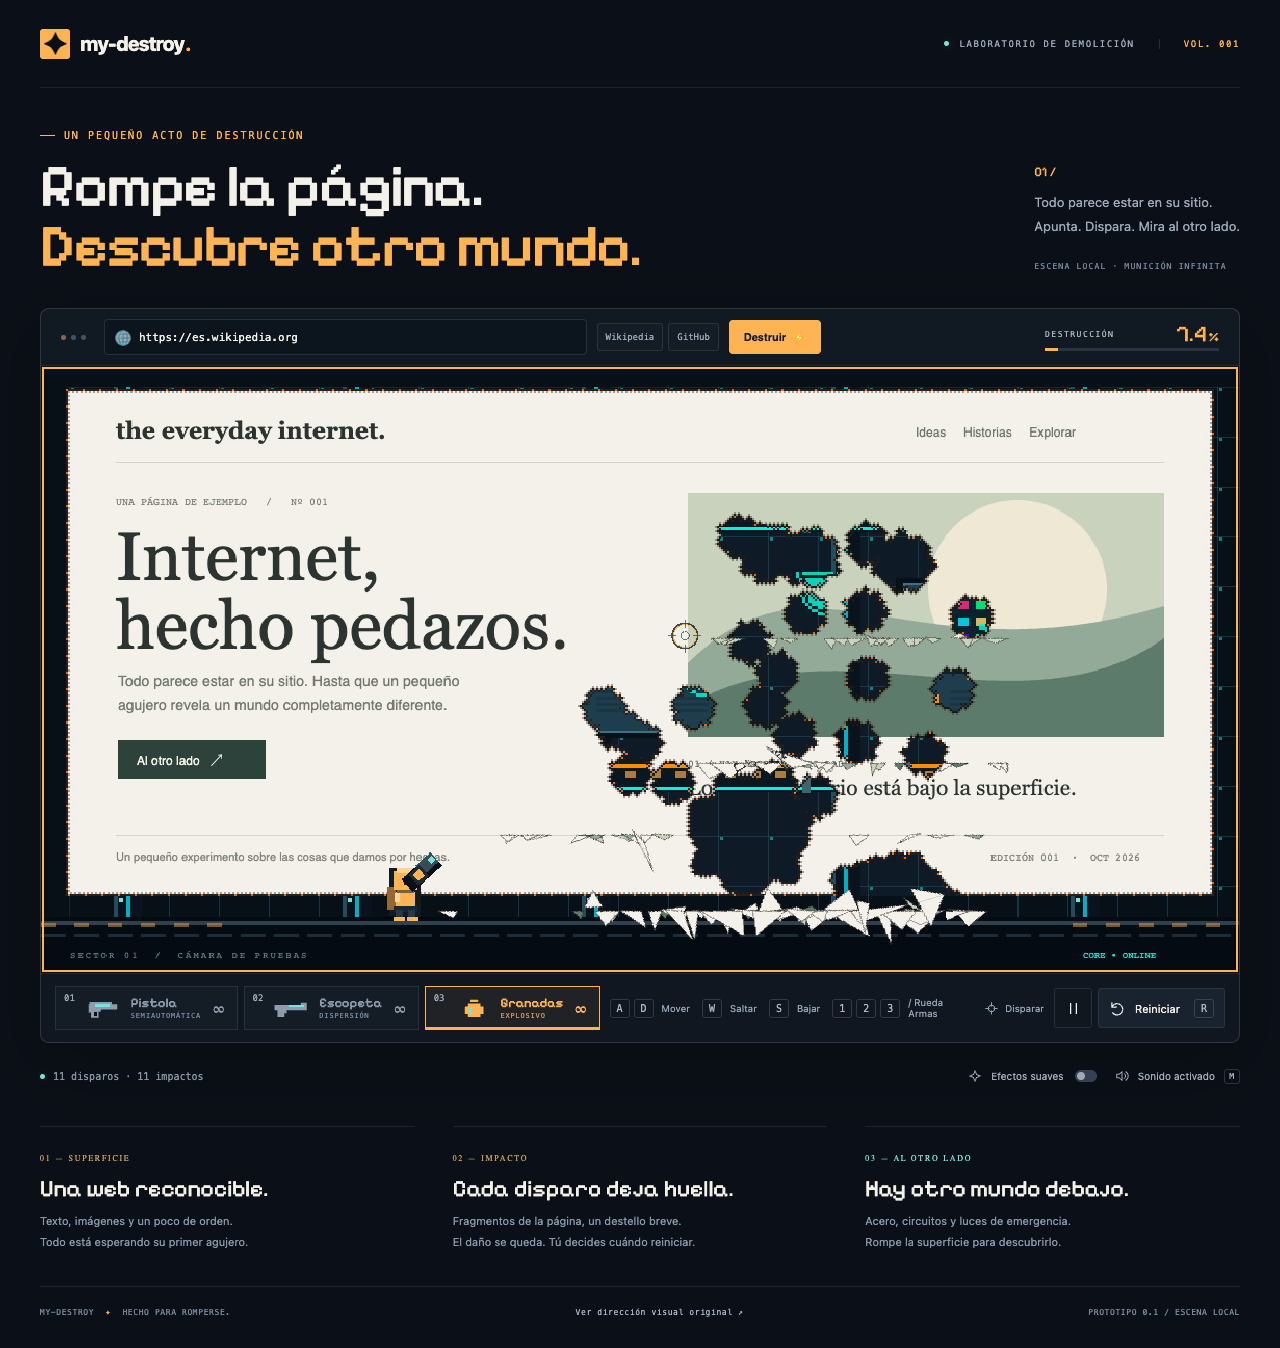
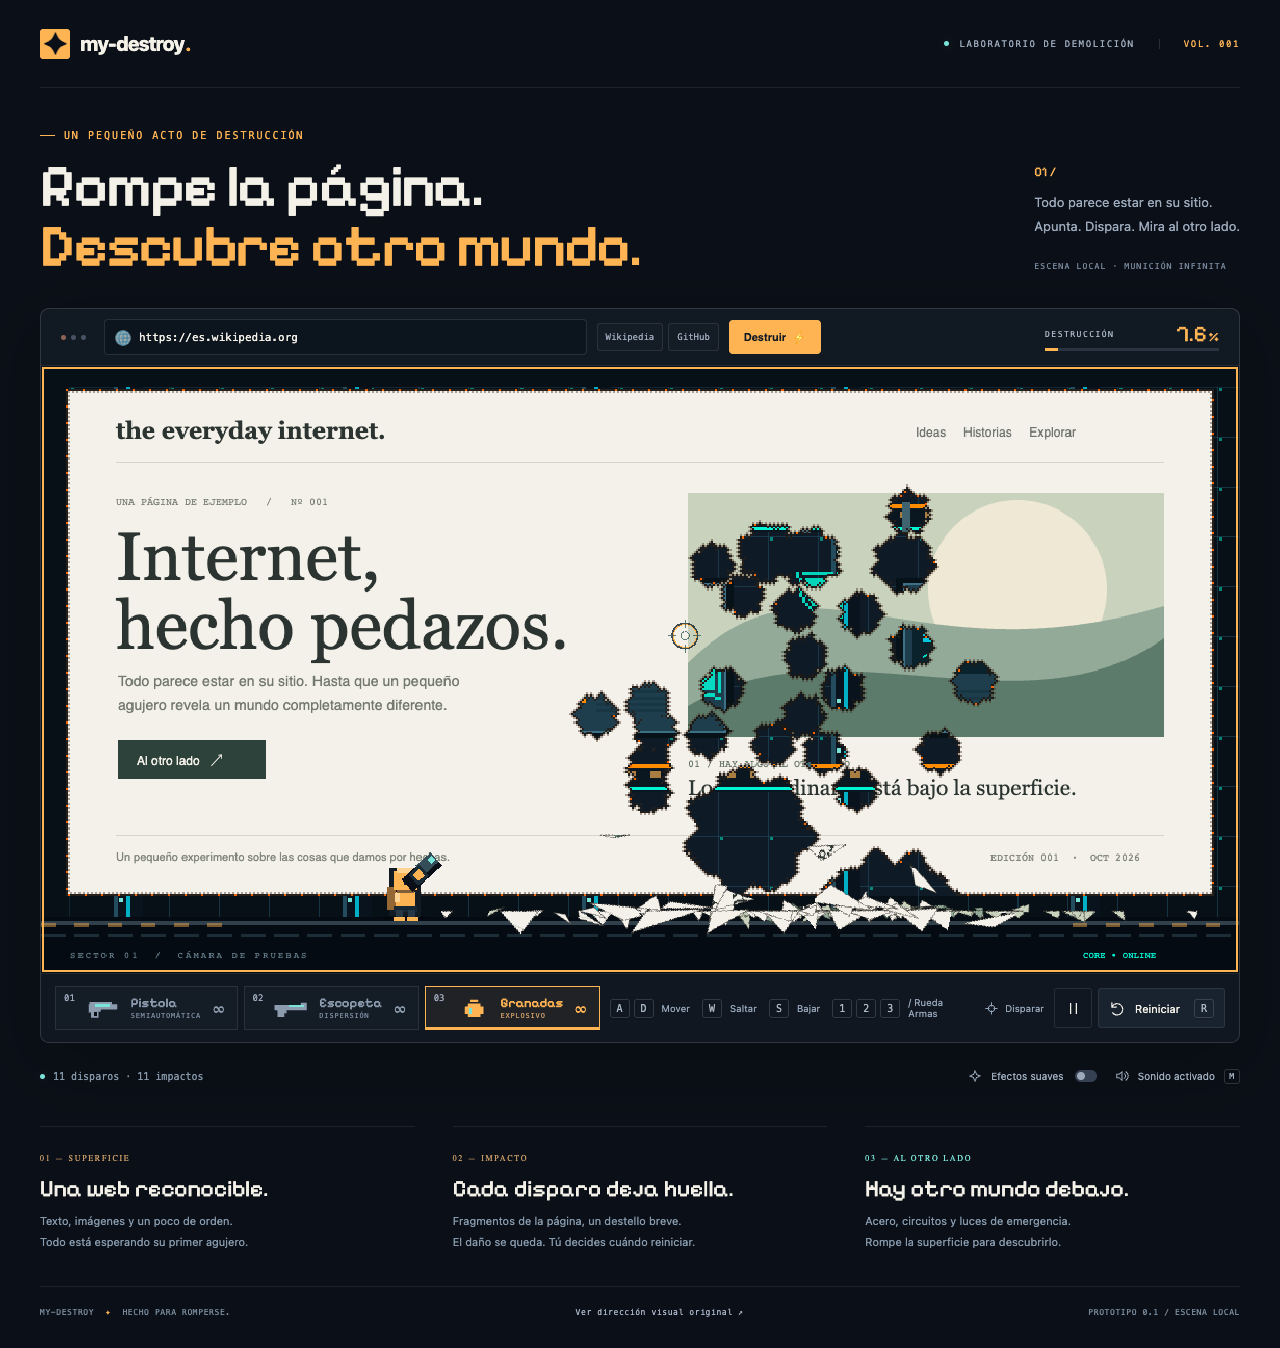
test(e2e): incorporar captura de destruccion sobre wikipedia y actualizar metricas

Changed region(s): [[0.375, 0.3427, 0.8438, 0.7166]]

diff --git a/tests/capture.spec.ts b/tests/capture.spec.ts
@@ -59,3 +59,60 @@ test('captures high-res live screenshot with triangular debris, underlayer, and 
   await mkdir('docs/previews', { recursive: true });
   await page.screenshot({ path: 'docs/previews/debris-dither-live.png', fullPage: true });
 });
+
+test('captures real scraped Wikipedia destruction with dynamic platforms and falling detachable', async ({ page }) => {
+  await page.setViewportSize({ width: 1280, height: 720 });
+  await page.goto('/');
+  await expect(page.locator('canvas')).toHaveCount(1);
+  await expect(page.getByRole('button', { name: 'Reiniciar' })).toBeEnabled();
+
+  // 1. Click Wikipedia preset
+  await page.getByRole('button', { name: 'Wikipedia' }).click();
+  await expect(page.getByRole('button', { name: 'Volver a demo' })).toBeVisible({ timeout: 15000 });
+  await page.waitForTimeout(600);
+
+  async function fire(x: number, y: number) {
+    const box = (await page.locator('canvas').boundingBox())!;
+    await page.mouse.click(box.x + (x / 1152) * box.width, box.y + (y / 584) * box.height);
+  }
+
+  // 2. Precision pistol shots on the main title and right summary card
+  for (const [x, y] of [[200, 75], [260, 75], [750, 150], [820, 160]]) {
+    await fire(x, y);
+    await page.waitForTimeout(220);
+  }
+
+  // 3. Switch to Shotgun ('2') for blast across the image gallery and middle section
+  await page.keyboard.press('Digit2');
+  await page.waitForTimeout(100);
+
+  for (const [x, y] of [[650, 350], [720, 360], [800, 350]]) {
+    await fire(x, y);
+    await page.waitForTimeout(420);
+  }
+
+  // 4. Detach button/card: target corners of detachable button at x=48+24=72, y=245+22=267
+  await page.keyboard.press('Digit1');
+  await page.waitForTimeout(100);
+  await fire(80, 275);
+  await page.waitForTimeout(220);
+  await fire(260, 275);
+  await page.waitForTimeout(220);
+
+  // 5. Grenade launcher ('3') for cratering
+  await page.keyboard.press('Digit3');
+  await page.waitForTimeout(100);
+  await fire(750, 340);
+  await page.waitForTimeout(1000);
+
+  // Allow Rapier2D physics to settle debris pieces
+  await page.waitForTimeout(1500);
+
+  const state = await page.evaluate(() => (window as any).__MY_DESTROY__.snapshot());
+  expect(state.shots).toBeGreaterThan(0);
+  expect(state.percent).toBeGreaterThan(0.5);
+
+  await mkdir('docs/previews', { recursive: true });
+  await page.screenshot({ path: 'docs/previews/scraped-wikipedia-destroyed.png', fullPage: true });
+});
+
